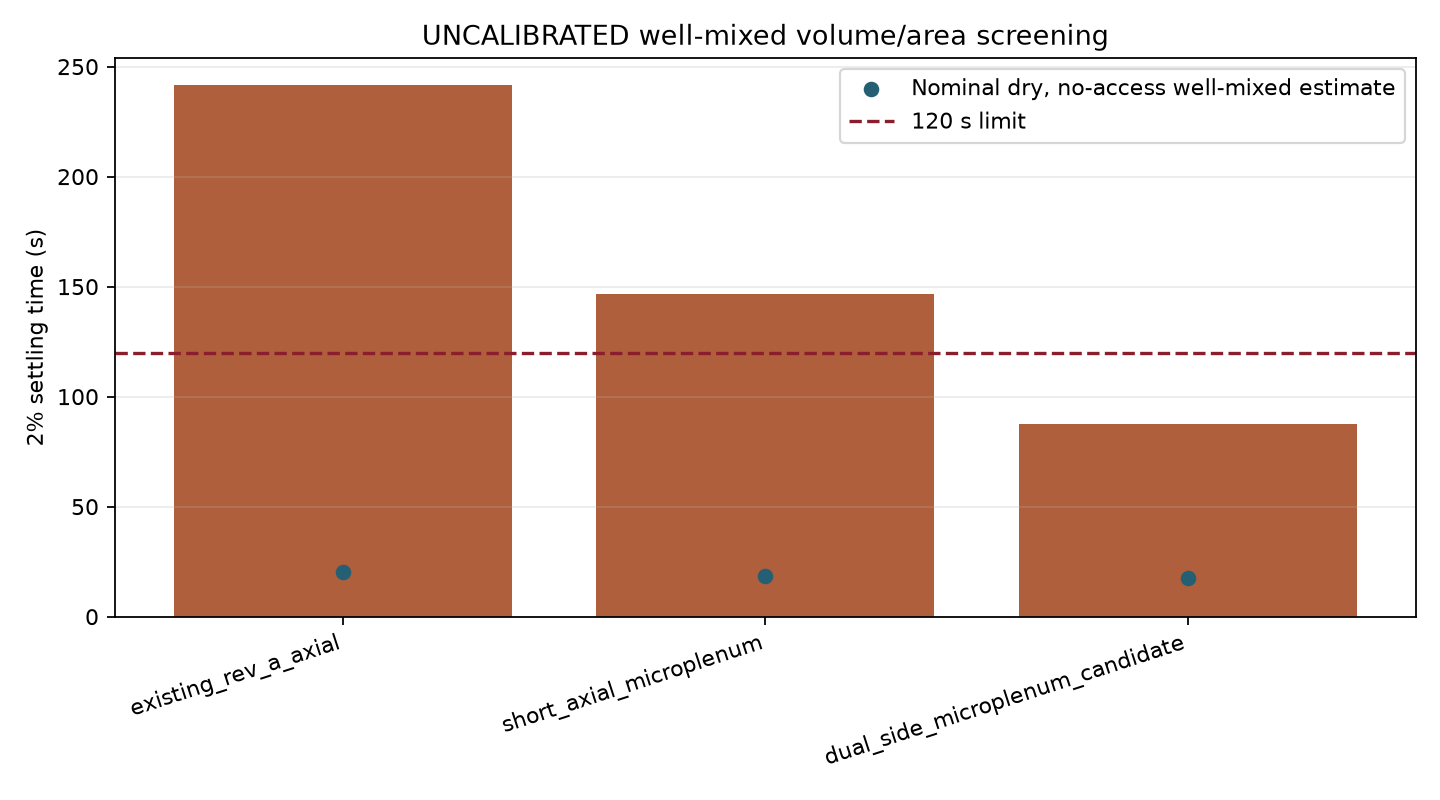
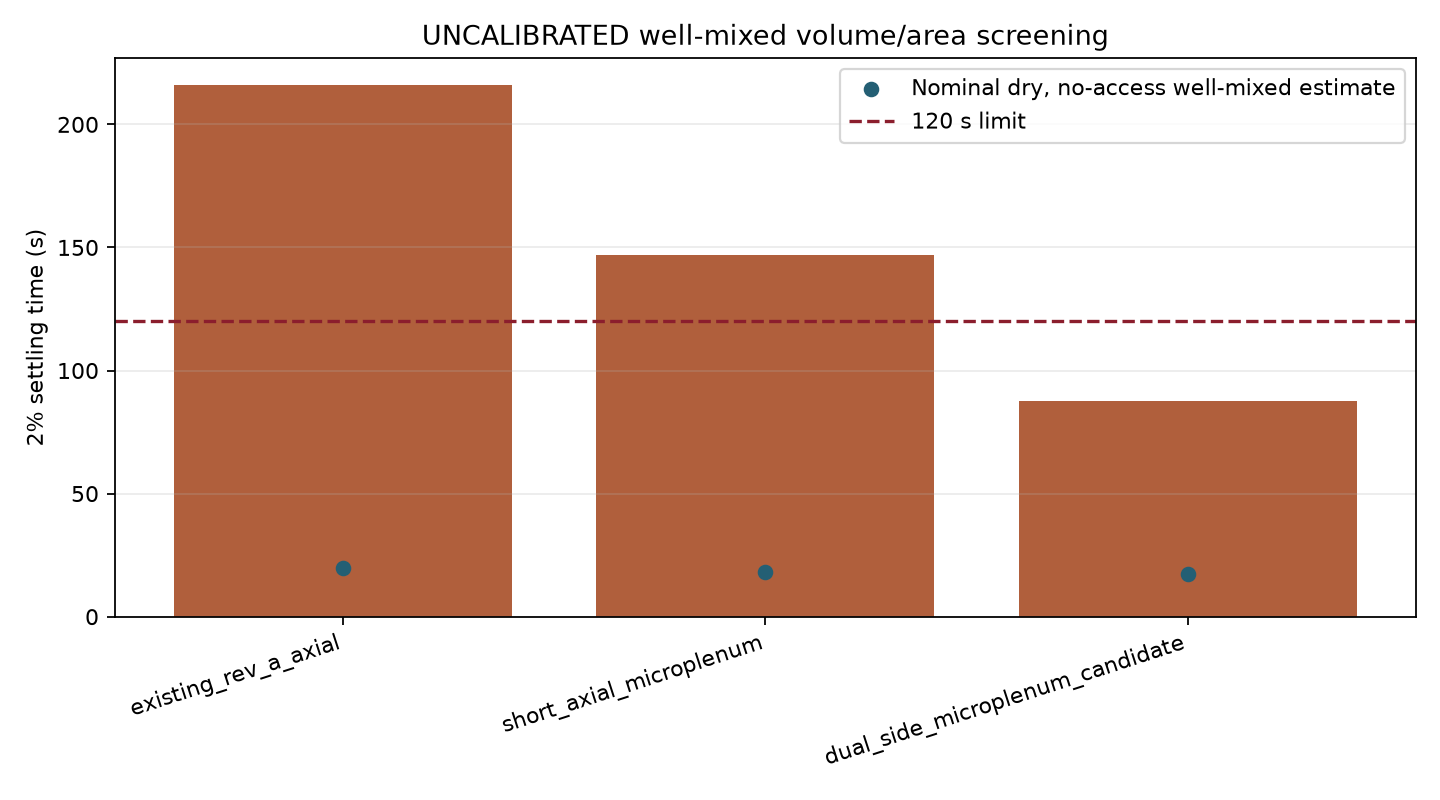
o2-probe: refresh response model for shorter path

diff --git a/model/src/o2_lumped/prototype.py b/model/src/o2_lumped/prototype.py
@@ -233,6 +233,8 @@ def candidate_config(config: ModelConfig, design: PrototypeDesign) -> ModelConfi
 
 def render_prototype_report(config: ModelConfig, study: PrototypeStudy, results: PrototypeResults) -> str:
     recommended = results.recommended
+    baseline = next(design for design in study.designs if design.name == study.baseline_design)
+    baseline_distance = float(np.mean(baseline.cell_to_membrane_distance_mm))
     current = results.summary[results.summary.design == study.baseline_design].iloc[0]
     chosen = results.summary[results.summary.design == recommended.name].iloc[0]
     verified_chosen = results.nonlinear_verification[
@@ -266,7 +268,7 @@ Retain `{recommended.name}` as the response-oriented **build candidate**, not a 
 - membrane: {recommended.membrane_orientation};
 - heater: {recommended.heater_geometry}.
 
-The current Rev-A is **not well mixed**. With its 50 mm closed axial domain and the cell 38.5 mm behind the membrane, the heater-off 1-D finite-volume model gives t90={current_axial_reference.t90_s:.1f} s and 2% settling={current_axial_reference.settling_time_2pct_s:.1f} s at the reference effective diffusivity {study.reference_axial_diffusivity_m2_s:.2g} m²/s. Across the uncalibrated {min(study.axial_diffusivity_m2_s):.2g}–{max(study.axial_diffusivity_m2_s):.2g} m²/s range, central-case settling spans {current_axial_settling.min():.1f}–{current_axial_settling.max():.1f} s. The previously reported 20.0 s current-design result is only an idealized well-mixed estimate that omitted the axial path; it is not the original geometry's predicted response.
+The current Rev-A is **not well mixed**. With its {baseline.axial_length_mm:g} mm closed axial domain and the cell {baseline_distance:g} mm behind the membrane, the heater-off 1-D finite-volume model gives t90={current_axial_reference.t90_s:.1f} s and 2% settling={current_axial_reference.settling_time_2pct_s:.1f} s at the reference effective diffusivity {study.reference_axial_diffusivity_m2_s:.2g} m²/s. Across the uncalibrated {min(study.axial_diffusivity_m2_s):.2g}–{max(study.axial_diffusivity_m2_s):.2g} m²/s range, central-case settling spans {current_axial_settling.min():.1f}–{current_axial_settling.max():.1f} s. The {current.nominal_dry_no_access_settling_time_2pct_s:.1f} s current-design result is only an idealized well-mixed estimate that omitted the axial path; it is not the current geometry's predicted response.
 
 Under the deliberately hard **well-mixed volume/area sensitivity** (largest volume, smallest area, {min(study.installed_conductance_scales):g}× installed conductance, {max(study.cell_tau_s):g} s cell lag and {max(study.empirical_access_tau_s):g} s empirical access lag), the proposed dual-side concept's linearized 2% estimate is {chosen.worst_studied_settling_time_2pct_s:.1f} s and its nonlinear well-mixed check gives {verified_chosen.settling_time_2pct_s:.1f} s. The candidate's nominal-dry, no-access well-mixed estimate is {chosen.nominal_dry_no_access_settling_time_2pct_s:.1f} s. These screening numbers do not bound the spatial result. The separate `voxel` study represents the finite candidate geometry and is the governing numerical screen for its 1–2 minute target.
 
@@ -276,7 +278,7 @@ The axial model explicitly includes the existing design's domain length and sens
 
 ## Why this geometry
 
-The current axial membrane is about 38.5 mm from the cell and leaves roughly 27 cm³ effective gas volume. Its large membrane area makes the membrane/inventory time constant only a few seconds in the central sensitivity case; the explicit model shows the long axial diffusion path is the main response penalty. Moving the cell/window system into a local, filled or shrouded microplenum is intended to shorten that path while reducing inventory without deliberately restricting the membrane. Two drained side facets keep the membrane close to the cell's lateral gas faces and avoid an upward-facing liquid pocket. The routed rear PCB aperture remains mandatory.
+The current axial membrane is about {baseline_distance:g} mm from the cell and leaves roughly {current.volume_nominal_cm3:g} cm³ effective gas volume. Its large membrane area makes the membrane/inventory time constant only a few seconds in the central sensitivity case; the explicit model shows the long axial diffusion path is the main response penalty. Moving the cell/window system into a local, filled or shrouded microplenum is intended to shorten that path while reducing inventory without deliberately restricting the membrane. Two drained side facets keep the membrane close to the cell's lateral gas faces and avoid an upward-facing liquid pocket. The routed rear PCB aperture remains mandatory.
 
 Do not interpret the heater as an air pump. Heater power is absent from the gas-transfer equation because no calibrated power/orientation/convection law exists. Its job is condensation margin. With a maximum allowed block rise of {study.maximum_block_rise_k:g} K and desired membrane rise of {study.target_membrane_rise_k:g} K, measured membrane coupling must be at least η={minimum_eta:.2f}. A remote cell-island heater cannot be accepted if the measured coupling is lower; the proposed dry-side carrier-rim heater remains a concept until temporary cold-spot thermometry validates it. The one-node model provides only quasi-steady thermal screening.
 

diff --git a/model/tests/test_prototype.py b/model/tests/test_prototype.py
@@ -56,6 +56,9 @@ def test_response_candidate_meets_well_mixed_hard_screening_case(example_config)
 
 def test_rev_a_axial_result_exceeds_well_mixed_screening(example_config):
     study = load_prototype_study(ROOT / "examples" / "prototype_study.json")
+    assert study.designs[0].axial_length_mm == 44.0
+    assert study.designs[0].cell_to_membrane_distance_mm == (29.0, 36.0)
+    assert study.designs[0].volume_cm3 == (20.3, 23.3, 26.3)
     study.designs = [study.designs[0]]
     study.axial_diffusivity_m2_s = [2e-5, 3e-5]
     study.response_dt_s = 1.0
@@ -74,8 +77,8 @@ def test_rev_a_axial_result_exceeds_well_mixed_screening(example_config):
         study.gas_temp_c,
     )
     well_mixed = cascade_metrics(well_mixed_tau, 0.0, min(study.cell_tau_s), 1.0)
-    assert central.t90_s == pytest.approx(135.0, abs=2.0)
-    assert central.settling_time_2pct_s > 200.0
+    assert central.t90_s == pytest.approx(104.0, abs=3.0)
+    assert central.settling_time_2pct_s > 160.0
     assert central.settling_time_2pct_s > 5.0 * well_mixed["settling_time_2pct_s"]
     assert central.steady_state_reached
     assert central.response_metrics_valid

diff --git a/model/results/prototype-study/prototype_report.md b/model/results/prototype-study/prototype_report.md
@@ -13,7 +13,7 @@ Retain `dual_side_microplenum_candidate` as the response-oriented **build candid
 - membrane: two recessed keyed PMV15T facets at 45/315 degrees, one on each PCB side and both draining at their lower edge behind a stand-off guard; dry-face cavity gap <=0.25 mm;
 - heater: thermally bonded cell island plus separately controlled recessed dry-side carrier-rim heater; instrument membrane cold spot.
 
-The current Rev-A is **not well mixed**. With its 50 mm closed axial domain and the cell 38.5 mm behind the membrane, the heater-off 1-D finite-volume model gives t90=134.7 s and 2% settling=219.8 s at the reference effective diffusivity 2e-05 m²/s. Across the uncalibrated 1e-05–3e-05 m²/s range, central-case settling spans 150.8–427.5 s. The previously reported 20.0 s current-design result is only an idealized well-mixed estimate that omitted the axial path; it is not the original geometry's predicted response.
+The current Rev-A is **not well mixed**. With its 44 mm closed axial domain and the cell 32.5 mm behind the membrane, the heater-off 1-D finite-volume model gives t90=105.2 s and 2% settling=171.2 s at the reference effective diffusivity 2e-05 m²/s. Across the uncalibrated 1e-05–3e-05 m²/s range, central-case settling spans 118.0–331.5 s. The 19.7 s current-design result is only an idealized well-mixed estimate that omitted the axial path; it is not the current geometry's predicted response.
 
 Under the deliberately hard **well-mixed volume/area sensitivity** (largest volume, smallest area, 0.05× installed conductance, 10 s cell lag and 15 s empirical access lag), the proposed dual-side concept's linearized 2% estimate is 87.7 s and its nonlinear well-mixed check gives 87.5 s. The candidate's nominal-dry, no-access well-mixed estimate is 17.5 s. These screening numbers do not bound the spatial result. The separate `voxel` study represents the finite candidate geometry and is the governing numerical screen for its 1–2 minute target.
 
@@ -23,7 +23,7 @@ The axial model explicitly includes the existing design's domain length and sens
 
 ## Why this geometry
 
-The current axial membrane is about 38.5 mm from the cell and leaves roughly 27 cm³ effective gas volume. Its large membrane area makes the membrane/inventory time constant only a few seconds in the central sensitivity case; the explicit model shows the long axial diffusion path is the main response penalty. Moving the cell/window system into a local, filled or shrouded microplenum is intended to shorten that path while reducing inventory without deliberately restricting the membrane. Two drained side facets keep the membrane close to the cell's lateral gas faces and avoid an upward-facing liquid pocket. The routed rear PCB aperture remains mandatory.
+The current axial membrane is about 32.5 mm from the cell and leaves roughly 23.3 cm³ effective gas volume. Its large membrane area makes the membrane/inventory time constant only a few seconds in the central sensitivity case; the explicit model shows the long axial diffusion path is the main response penalty. Moving the cell/window system into a local, filled or shrouded microplenum is intended to shorten that path while reducing inventory without deliberately restricting the membrane. Two drained side facets keep the membrane close to the cell's lateral gas faces and avoid an upward-facing liquid pocket. The routed rear PCB aperture remains mandatory.
 
 Do not interpret the heater as an air pump. Heater power is absent from the gas-transfer equation because no calibrated power/orientation/convection law exists. Its job is condensation margin. With a maximum allowed block rise of 4 K and desired membrane rise of 2 K, measured membrane coupling must be at least η=0.50. A remote cell-island heater cannot be accepted if the measured coupling is lower; the proposed dry-side carrier-rim heater remains a concept until temporary cold-spot thermometry validates it. The one-node model provides only quasi-steady thermal screening.
 

diff --git a/PROTOTYPE-RESPONSE.md b/PROTOTYPE-RESPONSE.md
@@ -5,17 +5,22 @@ Status: uncalibrated sensitivity decision; geometry is not fabrication release.
 
 ## Result
 
-The existing axial Rev-A geometry is **not well mixed**. The corrected heater-off
-model represents a 50 mm closed axial gas domain and reads the sensor 38.5 mm
-behind the membrane. At the central, uncalibrated effective diffusivity
-`D_eff = 2e-5 m²/s`, it reaches t90 in about **135 s** and settles within 2% in
-about **220 s**. Across the `1e-5`–`3e-5 m²/s` sensitivity range, central-case
-settling is about **428–151 s**. None of these cases meets 120 s.
+The shortened axial Rev-A geometry is **not well mixed**. The corrected
+heater-off model represents a 44 mm closed axial gas domain and reads the
+sensor 32.5 mm behind the membrane. At the central, uncalibrated effective
+diffusivity `D_eff = 2e-5 m²/s`, it reaches t90 in about **105 s** and settles
+within 2% in about **171 s**. Across the `1e-5`–`3e-5 m²/s` sensitivity range,
+central-case settling is about **332–118 s**; only the highest-diffusivity
+central case reaches the 120 s screen.
 
-The former 20.0 s value assumed the entire enclosure volume mixed instantly.
+The 19.7 s value assumes the entire enclosure volume mixes instantly.
 It omitted the measured axial path and is not the original design's response
-prediction. It remains in the output only as an explicitly labeled idealized
+prediction. It remains in the output only as an explicitly labelled idealized
 well-mixed screening estimate.
+
+The effective-volume band is now 20.3–26.3 cm³ (23.3 cm³ nominal). It subtracts
+the 3.69 cm³ gross volume of the removed 6 mm of 28 mm-ID tube from the prior
+sensitivity band; it is not a measured or detailed CAD free-volume result.
 
 The response-oriented **build candidate after the 3-D spatial screen** is a compact recessed-coupon microplenum:
 

diff --git a/model/README.md b/model/README.md
@@ -90,11 +90,15 @@ is specified. The checked-in hard well-mixed screen combines 5% of central
 installed window conductance, a 10 s cell lag, and a 15 s empirical access lag.
 These are design stress values, not probabilities or measured compost degradation.
 
-For the existing Rev-A, the explicit heater-off domain is 50 mm long and the
-sensor is 38.5 mm behind the membrane. At the reference uncalibrated effective
-diffusivity `2e-5 m²/s`, it gives about 135 s to t90 and 220 s to the 2% band;
-the `1e-5`–`3e-5 m²/s` sweep spans about 428–151 s settling. The former 20 s
+For the shortened existing Rev-A, the explicit heater-off domain is 44 mm long
+and the sensor is 32.5 mm behind the membrane. At the reference uncalibrated
+effective diffusivity `2e-5 m²/s`, it gives about 105 s to t90 and 171 s to the
+2% band; the `1e-5`–`3e-5 m²/s` sweep spans about 332–118 s settling. The 19.7 s
 well-mixed result omitted this path and is not a prediction of the actual enclosure.
+The existing-design effective-volume sensitivity band is 20.3–26.3 cm³
+(23.3 cm³ nominal): the prior 24–30 cm³ band was reduced by the 3.69 cm³ gross
+volume of the removed 6 mm length of 28 mm-ID tube. It remains an unmeasured
+sensitivity range, not a CAD fill-volume result.
 
 The response-oriented candidate now targets a sealed and measured ≤5.0 cm³
 effective local plenum, ≥180 mm² supported free area, a Ø23 mm × 15.9 mm clear
